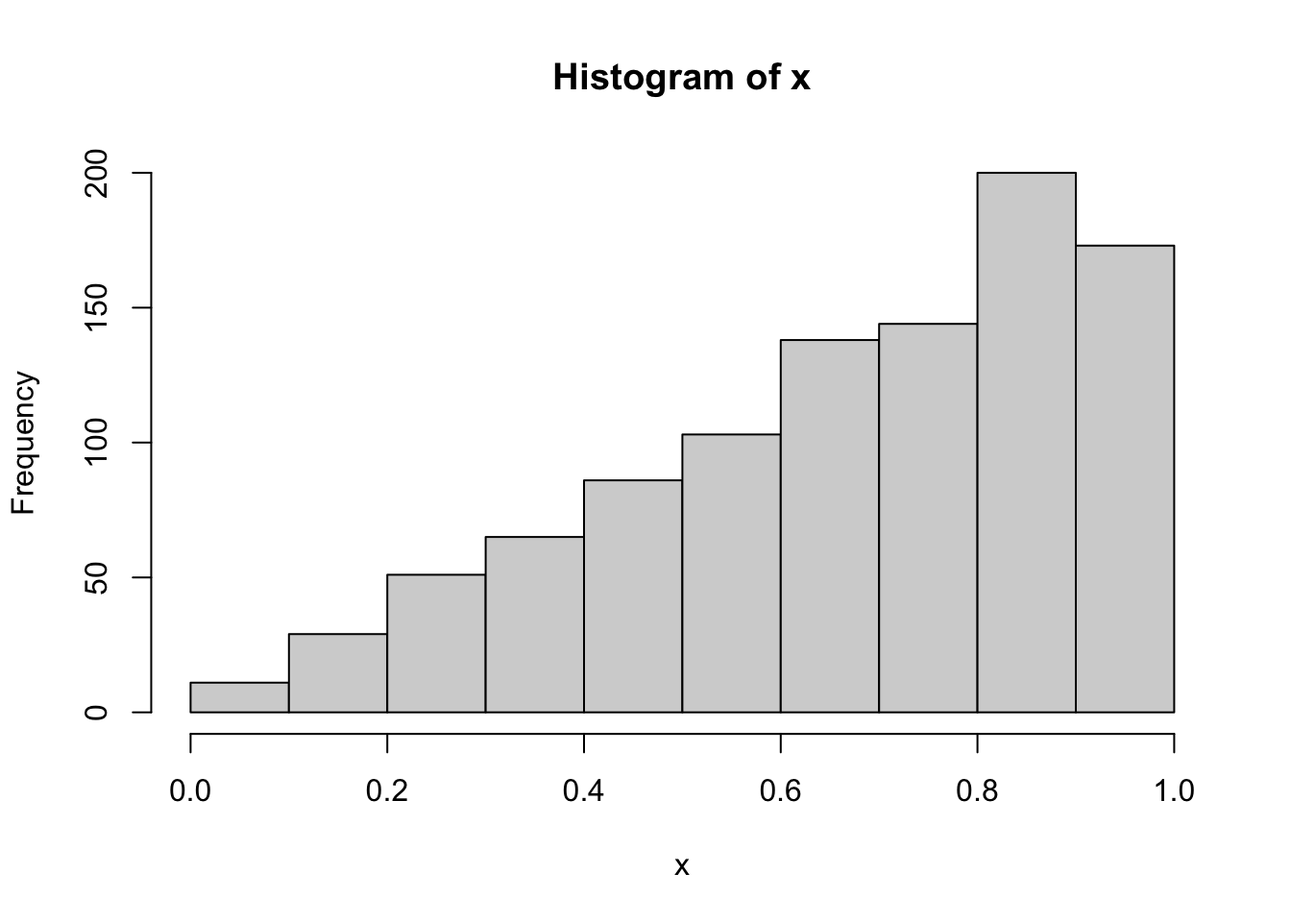
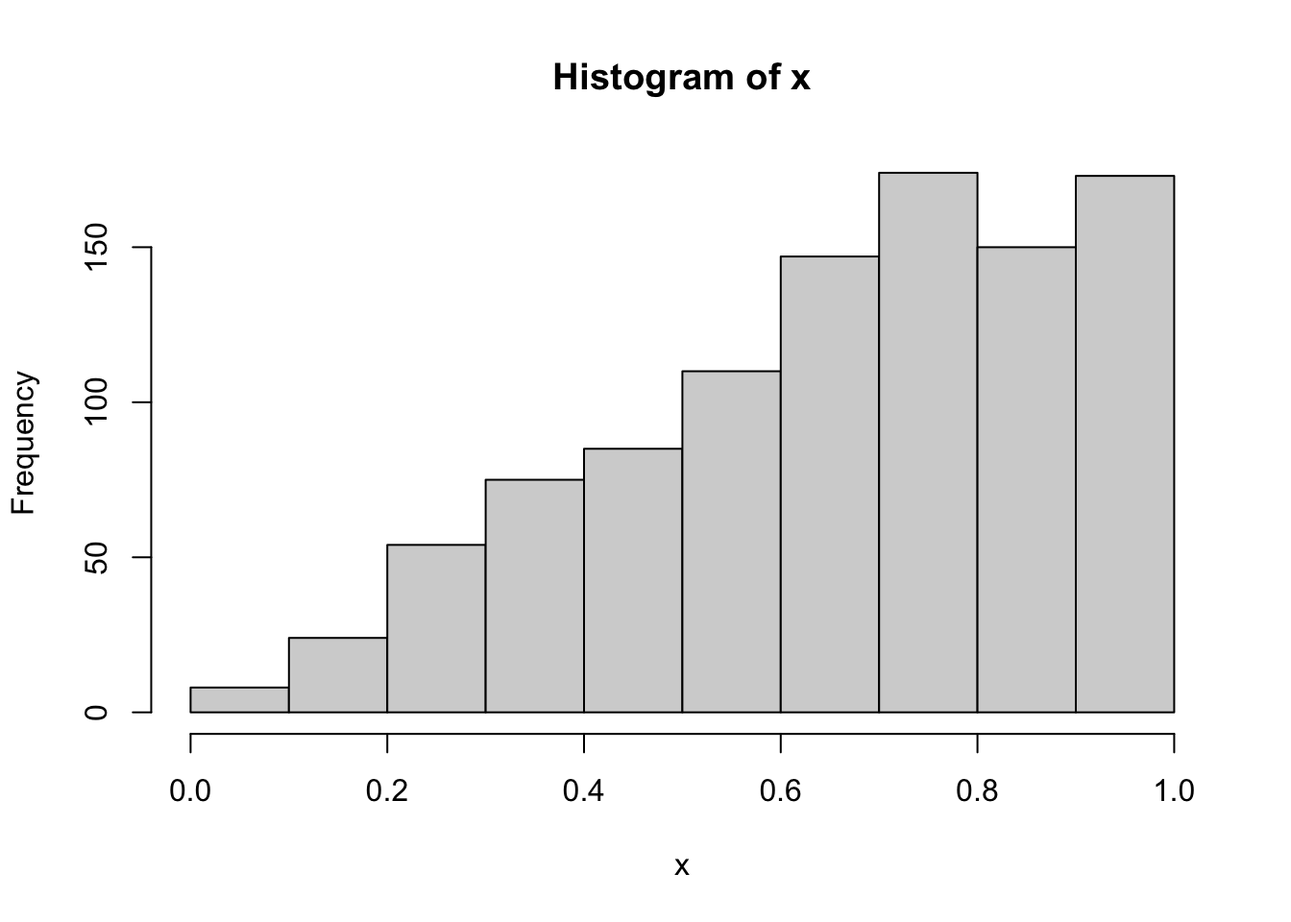
Notes from 3/9

diff --git a/docs/class-notes.html b/docs/class-notes.html
@@ -265,11 +265,19 @@ code span.wa { color: #60a0b0; font-weight: bold; font-style: italic; } /* Warni
   <li><a href="#control-variate-method" id="toc-control-variate-method" class="nav-link" data-scroll-target="#control-variate-method">Control Variate Method</a></li>
   </ul></li>
   </ul></li>
+  <li><a href="#section-16" id="toc-section-16" class="nav-link" data-scroll-target="#section-16">3/9/2023</a>
+  <ul class="collapse">
+  <li><a href="#summary-13" id="toc-summary-13" class="nav-link" data-scroll-target="#summary-13">Summary</a></li>
+  <li><a href="#notes-13" id="toc-notes-13" class="nav-link" data-scroll-target="#notes-13">Notes</a>
+  <ul class="collapse">
+  <li><a href="#control-variate-method-1" id="toc-control-variate-method-1" class="nav-link" data-scroll-target="#control-variate-method-1">Control Variate Method</a></li>
+  </ul></li>
+  </ul></li>
   </ul>
 </nav>
     </div>
 <!-- main -->
-<main class="content" id="quarto-document-content">
+<main class="content page-columns page-full" id="quarto-document-content">
 
 <header id="title-block-header" class="quarto-title-block default">
 <div class="quarto-title">
@@ -637,11 +645,11 @@ NULL</code></pre>
 <span id="cb21-8"><a href="#cb21-8" aria-hidden="true" tabindex="-1"></a></span>
 <span id="cb21-9"><a href="#cb21-9" aria-hidden="true" tabindex="-1"></a><span class="fu">mean</span>(x) <span class="co"># should be close to 1 / lambda</span></span></code><button title="Copy to Clipboard" class="code-copy-button"><i class="bi"></i></button></pre></div>
 <div class="cell-output cell-output-stdout">
-<pre><code>[1] 0.09999598</code></pre>
+<pre><code>[1] 0.09966128</code></pre>
 </div>
 <div class="sourceCode cell-code" id="cb23"><pre class="sourceCode r code-with-copy"><code class="sourceCode r"><span id="cb23-1"><a href="#cb23-1" aria-hidden="true" tabindex="-1"></a><span class="fu">var</span>(x) <span class="co"># should be close to 1 / lambda^2</span></span></code><button title="Copy to Clipboard" class="code-copy-button"><i class="bi"></i></button></pre></div>
 <div class="cell-output cell-output-stdout">
-<pre><code>[1] 0.01008169</code></pre>
+<pre><code>[1] 0.01001022</code></pre>
 </div>
 </div>
 <p>Transformation of a discrete CDF via a quantile:</p>
@@ -669,7 +677,7 @@ F_Y(y_{i - 1}) &lt; u \leq F_Y(y_i), u \sim Uniform(0, 1)
 <span id="cb25-18"><a href="#cb25-18" aria-hidden="true" tabindex="-1"></a><span class="fu">cumsum</span>(p)</span></code><button title="Copy to Clipboard" class="code-copy-button"><i class="bi"></i></button></pre></div>
 <div class="cell-output cell-output-stdout">
 <pre><code>     0      1      2      3      4 
-0.0979 0.3522 0.4158 0.8436 1.0000 </code></pre>
+0.0945 0.3614 0.4230 0.8509 1.0000 </code></pre>
 </div>
 </div>
 </section>
@@ -801,7 +809,7 @@ P(\text{A point generated from step 1 is rejected}) = \frac{\text{Area between }
 <div class="cell-output cell-output-stdout">
 <pre><code>out
     1     2     3     4     5 
-0.147 0.236 0.343 0.170 0.104 </code></pre>
+0.148 0.243 0.334 0.174 0.101 </code></pre>
 </div>
 </div>
 </section>
@@ -833,7 +841,7 @@ P(\text{A point generated from step 1 is rejected}) = \frac{\text{Area between }
 <span id="cb32-13"><a href="#cb32-13" aria-hidden="true" tabindex="-1"></a></span>
 <span id="cb32-14"><a href="#cb32-14" aria-hidden="true" tabindex="-1"></a><span class="fu">gen_poisson</span>(<span class="dv">10</span>, <span class="dv">2</span>)</span></code><button title="Copy to Clipboard" class="code-copy-button"><i class="bi"></i></button></pre></div>
 <div class="cell-output cell-output-stdout">
-<pre><code>[1] 21</code></pre>
+<pre><code>[1] 17</code></pre>
 </div>
 <div class="sourceCode cell-code" id="cb34"><pre class="sourceCode r code-with-copy"><code class="sourceCode r"><span id="cb34-1"><a href="#cb34-1" aria-hidden="true" tabindex="-1"></a>x <span class="ot">&lt;-</span> <span class="fu">replicate</span>(<span class="dv">1000</span>, <span class="fu">gen_poisson</span>(<span class="dv">8</span>, <span class="dv">3</span>))</span>
 <span id="cb34-2"><a href="#cb34-2" aria-hidden="true" tabindex="-1"></a></span>
@@ -876,8 +884,8 @@ f_X(x) = \begin{cases}
 <span id="cb35-5"><a href="#cb35-5" aria-hidden="true" tabindex="-1"></a></span>
 <span id="cb35-6"><a href="#cb35-6" aria-hidden="true" tabindex="-1"></a><span class="fu">rexp</span>(n, lambda) <span class="co"># x_i ~ f(x)             -- random draws</span></span></code><button title="Copy to Clipboard" class="code-copy-button"><i class="bi"></i></button></pre></div>
 <div class="cell-output cell-output-stdout">
-<pre><code> [1] 0.04821275 0.86568726 0.27535527 0.17550007 1.05623876 0.47881280
- [7] 0.23792943 0.02182196 0.97558406 0.06310353</code></pre>
+<pre><code> [1] 0.16743738 0.11545642 0.77955957 0.19226185 0.92408510 1.19061335
+ [7] 0.06183609 1.14527279 0.56107668 0.13444328</code></pre>
 </div>
 <div class="sourceCode cell-code" id="cb37"><pre class="sourceCode r code-with-copy"><code class="sourceCode r"><span id="cb37-1"><a href="#cb37-1" aria-hidden="true" tabindex="-1"></a><span class="fu">pexp</span>(x, lambda) <span class="co"># P(X &lt;= x)              -- CDF, cumulative probability</span></span></code><button title="Copy to Clipboard" class="code-copy-button"><i class="bi"></i></button></pre></div>
 <div class="cell-output cell-output-stdout">
@@ -898,7 +906,7 @@ f_X(x) = \begin{cases}
 <span id="cb43-3"><a href="#cb43-3" aria-hidden="true" tabindex="-1"></a></span>
 <span id="cb43-4"><a href="#cb43-4" aria-hidden="true" tabindex="-1"></a><span class="fu">rnorm</span>(<span class="dv">1</span>, mu, sd)</span></code><button title="Copy to Clipboard" class="code-copy-button"><i class="bi"></i></button></pre></div>
 <div class="cell-output cell-output-stdout">
-<pre><code>[1] -0.8994936</code></pre>
+<pre><code>[1] -0.1788599</code></pre>
 </div>
 <div class="sourceCode cell-code" id="cb45"><pre class="sourceCode r code-with-copy"><code class="sourceCode r"><span id="cb45-1"><a href="#cb45-1" aria-hidden="true" tabindex="-1"></a><span class="fu">pnorm</span>(<span class="dv">5</span>, mu, sd)</span></code><button title="Copy to Clipboard" class="code-copy-button"><i class="bi"></i></button></pre></div>
 <div class="cell-output cell-output-stdout">
@@ -934,7 +942,7 @@ F_u(u^*) \equiv P(U \leq u^*) = \int_0^{u^*} f_u(u)\ du = \int_0^{u^*} 1\ du = u
 <div class="sourceCode cell-code" id="cb51"><pre class="sourceCode r code-with-copy"><code class="sourceCode r"><span id="cb51-1"><a href="#cb51-1" aria-hidden="true" tabindex="-1"></a>u <span class="ot">&lt;-</span> <span class="fu">runif</span>(<span class="dv">1000000</span>, <span class="dv">0</span>, <span class="dv">1</span>)</span>
 <span id="cb51-2"><a href="#cb51-2" aria-hidden="true" tabindex="-1"></a><span class="fu">mean</span>(<span class="fu">exp</span>(<span class="sc">-</span>u))</span></code><button title="Copy to Clipboard" class="code-copy-button"><i class="bi"></i></button></pre></div>
 <div class="cell-output cell-output-stdout">
-<pre><code>[1] 0.6322463</code></pre>
+<pre><code>[1] 0.6319535</code></pre>
 </div>
 <div class="sourceCode cell-code" id="cb53"><pre class="sourceCode r code-with-copy"><code class="sourceCode r"><span id="cb53-1"><a href="#cb53-1" aria-hidden="true" tabindex="-1"></a><span class="dv">1</span> <span class="sc">-</span> <span class="fu">exp</span>(<span class="sc">-</span><span class="dv">1</span>)</span></code><button title="Copy to Clipboard" class="code-copy-button"><i class="bi"></i></button></pre></div>
 <div class="cell-output cell-output-stdout">
@@ -960,11 +968,11 @@ F_u(u^*) \equiv P(U \leq u^*) = \int_0^{u^*} f_u(u)\ du = \int_0^{u^*} 1\ du = u
 <span id="cb55-7"><a href="#cb55-7" aria-hidden="true" tabindex="-1"></a><span class="co"># g(x) = x</span></span>
 <span id="cb55-8"><a href="#cb55-8" aria-hidden="true" tabindex="-1"></a><span class="fu">mean</span>(u1)</span></code><button title="Copy to Clipboard" class="code-copy-button"><i class="bi"></i></button></pre></div>
 <div class="cell-output cell-output-stdout">
-<pre><code>[1] 0.5079939</code></pre>
+<pre><code>[1] 0.4879659</code></pre>
 </div>
 <div class="sourceCode cell-code" id="cb57"><pre class="sourceCode r code-with-copy"><code class="sourceCode r"><span id="cb57-1"><a href="#cb57-1" aria-hidden="true" tabindex="-1"></a><span class="fu">mean</span>(u2)</span></code><button title="Copy to Clipboard" class="code-copy-button"><i class="bi"></i></button></pre></div>
 <div class="cell-output cell-output-stdout">
-<pre><code>[1] 0.4957338</code></pre>
+<pre><code>[1] 0.4989732</code></pre>
 </div>
 </div>
 <p><span class="math display">\[
@@ -978,7 +986,7 @@ F_u(u^*) \equiv P(U \leq u^*) = \int_0^{u^*} f_u(u)\ du = \int_0^{u^*} 1\ du = u
 <div class="sourceCode cell-code" id="cb61"><pre class="sourceCode r code-with-copy"><code class="sourceCode r"><span id="cb61-1"><a href="#cb61-1" aria-hidden="true" tabindex="-1"></a>u <span class="ot">&lt;-</span> <span class="fu">runif</span>(<span class="dv">1000</span>, <span class="dv">2</span>, <span class="dv">5</span>)</span>
 <span id="cb61-2"><a href="#cb61-2" aria-hidden="true" tabindex="-1"></a>(<span class="dv">5</span> <span class="sc">-</span> <span class="dv">2</span>) <span class="sc">*</span> <span class="fu">mean</span>(<span class="fu">exp</span>(<span class="sc">-</span>u))</span></code><button title="Copy to Clipboard" class="code-copy-button"><i class="bi"></i></button></pre></div>
 <div class="cell-output cell-output-stdout">
-<pre><code>[1] 0.129262</code></pre>
+<pre><code>[1] 0.1299476</code></pre>
 </div>
 </div>
 </section>
@@ -1012,7 +1020,7 @@ F_u(u^*) \equiv P(U \leq u^*) = \int_0^{u^*} f_u(u)\ du = \int_0^{u^*} 1\ du = u
 <span id="cb63-9"><a href="#cb63-9" aria-hidden="true" tabindex="-1"></a></span>
 <span id="cb63-10"><a href="#cb63-10" aria-hidden="true" tabindex="-1"></a><span class="fu">map_dbl</span>(<span class="fu">c</span>(<span class="dv">10</span>, <span class="dv">100</span>, <span class="dv">1000</span>, <span class="dv">10000</span>, <span class="dv">100000</span>), <span class="sc">~</span><span class="fu">mc_integrate</span>(f, <span class="dv">2</span>, <span class="dv">4</span>, .))</span></code><button title="Copy to Clipboard" class="code-copy-button"><i class="bi"></i></button></pre></div>
 <div class="cell-output cell-output-stdout">
-<pre><code>[1] 0.08838609 0.11961412 0.11612834 0.11636998 0.11701864</code></pre>
+<pre><code>[1] 0.09562651 0.10850361 0.11208910 0.11700866 0.11717136</code></pre>
 </div>
 <div class="sourceCode cell-code" id="cb65"><pre class="sourceCode r code-with-copy"><code class="sourceCode r"><span id="cb65-1"><a href="#cb65-1" aria-hidden="true" tabindex="-1"></a><span class="co"># true value</span></span>
 <span id="cb65-2"><a href="#cb65-2" aria-hidden="true" tabindex="-1"></a><span class="fu">exp</span>(<span class="sc">-</span><span class="dv">2</span>) <span class="sc">-</span> <span class="fu">exp</span>(<span class="sc">-</span><span class="dv">4</span>)</span></code><button title="Copy to Clipboard" class="code-copy-button"><i class="bi"></i></button></pre></div>
@@ -1022,7 +1030,7 @@ F_u(u^*) \equiv P(U \leq u^*) = \int_0^{u^*} f_u(u)\ du = \int_0^{u^*} 1\ du = u
 <div class="sourceCode cell-code" id="cb67"><pre class="sourceCode r code-with-copy"><code class="sourceCode r"><span id="cb67-1"><a href="#cb67-1" aria-hidden="true" tabindex="-1"></a>h <span class="ot">&lt;-</span> <span class="cf">function</span>(x) <span class="dv">10</span> <span class="sc">*</span> <span class="fu">exp</span>(<span class="sc">-</span><span class="dv">10</span> <span class="sc">*</span> x)</span>
 <span id="cb67-2"><a href="#cb67-2" aria-hidden="true" tabindex="-1"></a><span class="fu">map_dbl</span>(<span class="fu">c</span>(<span class="dv">10</span>, <span class="dv">1000</span>, <span class="dv">1000000</span>), <span class="sc">~</span><span class="fu">mc_integrate</span>(h, <span class="dv">0</span>, <span class="dv">2</span>, .))</span></code><button title="Copy to Clipboard" class="code-copy-button"><i class="bi"></i></button></pre></div>
 <div class="cell-output cell-output-stdout">
-<pre><code>[1] 2.8051326 0.9667228 1.0014344</code></pre>
+<pre><code>[1] 0.01468095 0.98138915 1.00302424</code></pre>
 </div>
 <div class="sourceCode cell-code" id="cb69"><pre class="sourceCode r code-with-copy"><code class="sourceCode r"><span id="cb69-1"><a href="#cb69-1" aria-hidden="true" tabindex="-1"></a><span class="co"># true value</span></span>
 <span id="cb69-2"><a href="#cb69-2" aria-hidden="true" tabindex="-1"></a><span class="fu">integrate</span>(h, <span class="dv">0</span>, <span class="dv">2</span>)</span></code><button title="Copy to Clipboard" class="code-copy-button"><i class="bi"></i></button></pre></div>
@@ -1056,7 +1064,7 @@ f_X(x) = \begin{cases}
 <div class="sourceCode cell-code" id="cb71"><pre class="sourceCode r code-with-copy"><code class="sourceCode r"><span id="cb71-1"><a href="#cb71-1" aria-hidden="true" tabindex="-1"></a>f <span class="ot">&lt;-</span> <span class="cf">function</span>(x) <span class="dv">10</span> <span class="sc">*</span> <span class="fu">exp</span>(<span class="sc">-</span><span class="dv">10</span> <span class="sc">*</span> x)</span>
 <span id="cb71-2"><a href="#cb71-2" aria-hidden="true" tabindex="-1"></a><span class="fu">mc_integrate</span>(f, <span class="dv">0</span>, <span class="dv">5</span>, <span class="dv">100000</span>)</span></code><button title="Copy to Clipboard" class="code-copy-button"><i class="bi"></i></button></pre></div>
 <div class="cell-output cell-output-stdout">
-<pre><code>[1] 0.9933802</code></pre>
+<pre><code>[1] 1.009759</code></pre>
 </div>
 </div>
 <div class="cell">
@@ -1070,7 +1078,7 @@ f_X(x) = \begin{cases}
 <span id="cb73-8"><a href="#cb73-8" aria-hidden="true" tabindex="-1"></a></span>
 <span id="cb73-9"><a href="#cb73-9" aria-hidden="true" tabindex="-1"></a>u <span class="sc">-</span> l</span></code><button title="Copy to Clipboard" class="code-copy-button"><i class="bi"></i></button></pre></div>
 <div class="cell-output cell-output-stdout">
-<pre><code>[1] 0.307096</code></pre>
+<pre><code>[1] -0.5129175</code></pre>
 </div>
 <div class="sourceCode cell-code" id="cb75"><pre class="sourceCode r code-with-copy"><code class="sourceCode r"><span id="cb75-1"><a href="#cb75-1" aria-hidden="true" tabindex="-1"></a><span class="fu">pexp</span>(<span class="dv">6</span>, <span class="dv">1</span><span class="sc">/</span><span class="dv">20</span>) <span class="sc">-</span> <span class="fu">pexp</span>(<span class="dv">2</span>, <span class="dv">1</span><span class="sc">/</span><span class="dv">20</span>)</span></code><button title="Copy to Clipboard" class="code-copy-button"><i class="bi"></i></button></pre></div>
 <div class="cell-output cell-output-stdout">
@@ -1103,7 +1111,7 @@ f_X(x) = \begin{cases}
 <span id="cb77-20"><a href="#cb77-20" aria-hidden="true" tabindex="-1"></a></span>
 <span id="cb77-21"><a href="#cb77-21" aria-hidden="true" tabindex="-1"></a><span class="fu">z_cdf</span>(<span class="dv">2</span>, <span class="dv">100000</span>)</span></code><button title="Copy to Clipboard" class="code-copy-button"><i class="bi"></i></button></pre></div>
 <div class="cell-output cell-output-stdout">
-<pre><code>[1] 0.977499</code></pre>
+<pre><code>[1] 0.977421</code></pre>
 </div>
 <div class="sourceCode cell-code" id="cb79"><pre class="sourceCode r code-with-copy"><code class="sourceCode r"><span id="cb79-1"><a href="#cb79-1" aria-hidden="true" tabindex="-1"></a><span class="fu">pnorm</span>(<span class="dv">2</span>)</span></code><button title="Copy to Clipboard" class="code-copy-button"><i class="bi"></i></button></pre></div>
 <div class="cell-output cell-output-stdout">
@@ -1146,7 +1154,7 @@ f_X(x) = \begin{cases}
 <span id="cb81-9"><a href="#cb81-9" aria-hidden="true" tabindex="-1"></a><span class="co"># step 3.</span></span>
 <span id="cb81-10"><a href="#cb81-10" aria-hidden="true" tabindex="-1"></a><span class="fu">mean</span>(i)</span></code><button title="Copy to Clipboard" class="code-copy-button"><i class="bi"></i></button></pre></div>
 <div class="cell-output cell-output-stdout">
-<pre><code>[1] 0.9718</code></pre>
+<pre><code>[1] 0.9797</code></pre>
 </div>
 <div class="sourceCode cell-code" id="cb83"><pre class="sourceCode r code-with-copy"><code class="sourceCode r"><span id="cb83-1"><a href="#cb83-1" aria-hidden="true" tabindex="-1"></a>norm_cdf <span class="ot">&lt;-</span> <span class="cf">function</span>(x, <span class="at">n =</span> <span class="dv">10000</span>, <span class="at">mu =</span> <span class="dv">0</span>, <span class="at">sigma =</span> <span class="dv">1</span>) {</span>
 <span id="cb83-2"><a href="#cb83-2" aria-hidden="true" tabindex="-1"></a>  X <span class="ot">&lt;-</span> <span class="fu">rnorm</span>(n, mu, sigma)</span>
@@ -1239,7 +1247,7 @@ f_X(x) = \begin{cases}
 <span id="cb91-43"><a href="#cb91-43" aria-hidden="true" tabindex="-1"></a><span class="fu">comparison</span>()</span></code><button title="Copy to Clipboard" class="code-copy-button"><i class="bi"></i></button></pre></div>
 <div class="cell-output cell-output-stdout">
 <pre><code>      theta1       theta2 
-5.163935e-05 2.602778e-05 </code></pre>
+3.999127e-05 2.826263e-05 </code></pre>
 </div>
 </div>
 <ul>
@@ -1293,7 +1301,7 @@ Var\Bigl(\frac{h(u_1) + h(u_2)}{2} \Bigr) = \frac{1}{4}(Var(h(u_1)) + Var(h(u_2)
 <span id="cb93-4"><a href="#cb93-4" aria-hidden="true" tabindex="-1"></a><span class="co"># Cov(u, v) &lt; 0!</span></span>
 <span id="cb93-5"><a href="#cb93-5" aria-hidden="true" tabindex="-1"></a><span class="fu">cov</span>(u, v)</span></code><button title="Copy to Clipboard" class="code-copy-button"><i class="bi"></i></button></pre></div>
 <div class="cell-output cell-output-stdout">
-<pre><code>[1] -0.0836544</code></pre>
+<pre><code>[1] -0.08566134</code></pre>
 </div>
 </div>
 <p>Comparison between simple monte-carlo and antithetic variable approach.</p>
@@ -1338,11 +1346,11 @@ Var\Bigl(\frac{h(u_1) + h(u_2)}{2} \Bigr) = \frac{1}{4}(Var(h(u_1)) + Var(h(u_2)
 <span id="cb95-38"><a href="#cb95-38" aria-hidden="true" tabindex="-1"></a></span>
 <span id="cb95-39"><a href="#cb95-39" aria-hidden="true" tabindex="-1"></a><span class="fu">var</span>(s)</span></code><button title="Copy to Clipboard" class="code-copy-button"><i class="bi"></i></button></pre></div>
 <div class="cell-output cell-output-stdout">
-<pre><code>[1] 0.0005662214</code></pre>
+<pre><code>[1] 0.0005521252</code></pre>
 </div>
 <div class="sourceCode cell-code" id="cb97"><pre class="sourceCode r code-with-copy"><code class="sourceCode r"><span id="cb97-1"><a href="#cb97-1" aria-hidden="true" tabindex="-1"></a><span class="fu">var</span>(a)</span></code><button title="Copy to Clipboard" class="code-copy-button"><i class="bi"></i></button></pre></div>
 <div class="cell-output cell-output-stdout">
-<pre><code>[1] 1.778401e-06</code></pre>
+<pre><code>[1] 1.982865e-06</code></pre>
 </div>
 </div>
 </section>
@@ -1358,6 +1366,126 @@ Var\Bigl(\frac{h(u_1) + h(u_2)}{2} \Bigr) = \frac{1}{4}(Var(h(u_1)) + Var(h(u_2)
 <p><span class="math display">\[
 \min_c Var(\hat{\theta}_c) = \min_c Var(1 \cdot g(x) + c \cdot [l(x) - \mu])
 \]</span></p>
+</section>
+</section>
+</section>
+<section id="section-16" class="level1 page-columns page-full">
+<h1>3/9/2023</h1>
+<section id="summary-13" class="level2">
+<h2 class="anchored" data-anchor-id="summary-13">Summary</h2>
+<p>More on the control variate method.</p>
+</section>
+<section id="notes-13" class="level2 page-columns page-full">
+<h2 class="anchored" data-anchor-id="notes-13">Notes</h2>
+<ul>
+<li>Homework 3 is due on 3/16 (next Thursday)</li>
+</ul>
+<p><strong>Question from last class:</strong> why are we able to use the SLLN with the antithetic variable method? Aren’t we violating the assumption of i.i.d. draws used for estimation?</p>
+<p>Standard Monte Carlo:</p>
+<ol type="1">
+<li><p><span class="math inline">\(u_1, u_2, u_3, u_4 \sim U(0, 1)\)</span></p></li>
+<li><p><span class="math inline">\(\hat{\theta}_4 = \frac{1}{4} \sum_{i = 1}^4 g(u_i)\)</span></p></li>
+</ol>
+<p>Antithetic Variable Method:</p>
+<ol type="1">
+<li><span class="math inline">\(u_1, u_2 \sim U(0, 1); u_3 = 1 - u_1, u_4 = 1 - u_2.\)</span>
+<ul>
+<li>Note that <span class="math inline">\(Cov(u_1, u_3) &lt; 0\)</span> and <span class="math inline">\(Cov(u_2, u_4) &lt; 0.\)</span></li>
+</ul></li>
+<li>We then estimate a new sample mean</li>
+</ol>
+<p><span class="math display">\[\begin{align*}
+  \theta \leftarrow \frac{1}{4} \sum_{i = 1}^4 g(u_i) &amp;= \frac{g(u_1) + g(u_2) + g(u_3) + g(u_4)}{4} \\
+  &amp;= \frac{g(u_1) + g(1 - u_1) + g(u_2) + g(1 - u_2)}{4} \\ \\
+  &amp;= \frac{\frac{g(u_1) + g(1 - u_2)}{2} + \frac{g(u_2) + g(1 - u_2)}{2}}{2} \\
+  &amp;= \frac{1}{2} \sum_{i = 1}^2 g^*(u_i).
+\end{align*}\]</span></p>
+<p>So, you end up with half the number of realizations, but <span class="math inline">\(\frac{g(u_1) + g(1 - u_2)}{2}\)</span> and <span class="math inline">\(\frac{g(u_2) + g(1 - u_2)}{2}\)</span> are independent from each other. So, for estimation, they constitute independent and identical draws, and thus we can rely on the SLLN to know that our estimate of <span class="math inline">\(\theta\)</span> converges to the true value as the number of realizations used increases.</p>
+<section id="control-variate-method-1" class="level3 page-columns page-full">
+<h3 class="anchored" data-anchor-id="control-variate-method-1">Control Variate Method</h3>
+<p>Picking up where we left off.</p>
+<p><span class="math display">\[
+\min_c Var(\hat{\theta}_c) = \min_c Var(1 \cdot g(x) + c \cdot [l(x) - \mu])
+\]</span></p>
+<p>We assume <span class="math inline">\(\mu\)</span>, the mean of <span class="math inline">\(l(x)\)</span> is known. In practice, we can estimate it empirically from simulated data?</p>
+
+<div class="no-row-height column-margin column-container"><div class="">
+<p>Note that <span class="math inline">\(Var(X + a) = Var(X)\)</span></p>
+</div></div><p><span class="math display">\[\begin{align*}
+  \min_c Var(\hat{\theta}_c) &amp;\implies \min_c Var(1 \cdot g(x) + c \cdot [l(x) - \mu]) \\
+  &amp;\implies \min_c 1 \cdot Var(g(x)) + c^2 \cdot Var[l(x) - \mu] + 2 \cdot 1 \cdot c \cdot Cov(g(x), l(x)) \\
+  &amp;\implies \min_c Var(l(x) - \mu) \cdot c^2  + 2 \cdot Cov(g(x), l(x)) \cdot c + Var(g(x)) \\
+  &amp;\implies \frac{d}{dc} \Biggl[ Var(l(x) - \mu) \cdot c^2  + 2 \cdot Cov(g(x), l(x)) \cdot c + Var(g(x)) \Biggr] \equiv 0 \\
+  &amp;\implies 2 \cdot Var(l(x) - \mu) \cdot c^* + 2 \cdot Cov(g(x), l(x)) \equiv 0 \\
+  &amp;\implies c^* = -\frac{Cov(g(x), l(x))}{Var(l(x))} \\
+  &amp; \frac{d^2}{dx^2} Var(\hat{\theta}_c) \Big|_{c = c^*} &gt; 0.
+\end{align*}\]</span></p>
+<p>Variance is always positive by definition, so we know that the value found for <span class="math inline">\(c^*\)</span> is the minimum.</p>
+<p><span class="math display">\[
+c^* = -\frac{Cov(g(x), l(x))}{Var(l(x))}
+\]</span></p>
+<p><strong>Example:</strong></p>
+<p><span class="math display">\[
+\theta = E(e^u) = \int_0^1 e^u\ du
+\]</span></p>
+<p>So <span class="math inline">\(g(u) = e^u.\)</span> First, we need a candidate for <span class="math inline">\(l(x)\)</span>.</p>
+<p>How about <span class="math inline">\(l(u) = u\)</span> where <span class="math inline">\(u \sim U(0, 1).\)</span> So, <span class="math inline">\(E(U) = 0.5\)</span> and <span class="math inline">\(Var(U) = \frac{1}{12}\)</span>.</p>
+
+<div class="no-row-height column-margin column-container"><div class="">
+<p>We solved for these values in Homework 1.</p>
+</div></div><p>Then <span class="math display">\[
+\hat{\theta}_c = e^u + c \cdot [u - \frac{1}{2}]
+\]</span> where <span class="math display">\[
+  c = -\frac{Cov(e^u, u)}{Var(u)} = -0.1409 / (1/12).
+\]</span></p>
+<div class="cell">
+<div class="sourceCode cell-code" id="cb99"><pre class="sourceCode r code-with-copy"><code class="sourceCode r"><span id="cb99-1"><a href="#cb99-1" aria-hidden="true" tabindex="-1"></a>u <span class="ot">&lt;-</span> <span class="fu">runif</span>(<span class="dv">100</span>)</span>
+<span id="cb99-2"><a href="#cb99-2" aria-hidden="true" tabindex="-1"></a>C <span class="ot">&lt;-</span> <span class="sc">-</span><span class="fu">cov</span>(<span class="fu">exp</span>(u), u) <span class="sc">/</span> <span class="fu">var</span>(u)</span>
+<span id="cb99-3"><a href="#cb99-3" aria-hidden="true" tabindex="-1"></a>C</span></code><button title="Copy to Clipboard" class="code-copy-button"><i class="bi"></i></button></pre></div>
+<div class="cell-output cell-output-stdout">
+<pre><code>[1] -1.707418</code></pre>
+</div>
+<div class="sourceCode cell-code" id="cb101"><pre class="sourceCode r code-with-copy"><code class="sourceCode r"><span id="cb101-1"><a href="#cb101-1" aria-hidden="true" tabindex="-1"></a><span class="sc">-</span><span class="fl">0.1409</span> <span class="sc">/</span> (<span class="dv">1</span><span class="sc">/</span><span class="dv">12</span>)</span></code><button title="Copy to Clipboard" class="code-copy-button"><i class="bi"></i></button></pre></div>
+<div class="cell-output cell-output-stdout">
+<pre><code>[1] -1.6908</code></pre>
+</div>
+</div>
+<p><strong>Trying on our own:</strong></p>
+<p>Estimate <span class="math inline">\(\theta = \int_0^1 e^{-x} / (1 + x^2)\ dx\)</span> using the control variate method with <span class="math inline">\(l(x) = e^{-0.5} / (1 + x^2)\)</span> and an emperical value of <span class="math inline">\(c^*\)</span>.</p>
+<div class="cell">
+<div class="sourceCode cell-code" id="cb103"><pre class="sourceCode r code-with-copy"><code class="sourceCode r"><span id="cb103-1"><a href="#cb103-1" aria-hidden="true" tabindex="-1"></a>g <span class="ot">&lt;-</span> <span class="cf">function</span>(x) <span class="fu">exp</span>(<span class="sc">-</span>x) <span class="sc">/</span> (<span class="dv">1</span> <span class="sc">+</span> x<span class="sc">^</span><span class="dv">2</span>)</span>
+<span id="cb103-2"><a href="#cb103-2" aria-hidden="true" tabindex="-1"></a>l <span class="ot">&lt;-</span> <span class="cf">function</span>(x) <span class="fu">exp</span>(<span class="sc">-</span><span class="fl">0.5</span>) <span class="sc">/</span> (<span class="dv">1</span> <span class="sc">+</span> x<span class="sc">^</span><span class="dv">2</span>)</span>
+<span id="cb103-3"><a href="#cb103-3" aria-hidden="true" tabindex="-1"></a></span>
+<span id="cb103-4"><a href="#cb103-4" aria-hidden="true" tabindex="-1"></a><span class="co"># estimating C</span></span>
+<span id="cb103-5"><a href="#cb103-5" aria-hidden="true" tabindex="-1"></a>u <span class="ot">&lt;-</span> <span class="fu">runif</span>(<span class="dv">10000</span>)</span>
+<span id="cb103-6"><a href="#cb103-6" aria-hidden="true" tabindex="-1"></a>C <span class="ot">&lt;-</span> <span class="sc">-</span><span class="fu">cov</span>(<span class="fu">g</span>(u), <span class="fu">l</span>(u)) <span class="sc">/</span> <span class="fu">var</span>(<span class="fu">l</span>(u))</span>
+<span id="cb103-7"><a href="#cb103-7" aria-hidden="true" tabindex="-1"></a></span>
+<span id="cb103-8"><a href="#cb103-8" aria-hidden="true" tabindex="-1"></a><span class="co"># simple monte-carlo vs. control variate</span></span>
+<span id="cb103-9"><a href="#cb103-9" aria-hidden="true" tabindex="-1"></a>u <span class="ot">&lt;-</span> <span class="fu">runif</span>(<span class="dv">1000</span>)</span>
+<span id="cb103-10"><a href="#cb103-10" aria-hidden="true" tabindex="-1"></a>smc <span class="ot">&lt;-</span> <span class="fu">mean</span>(<span class="fu">g</span>(u))</span>
+<span id="cb103-11"><a href="#cb103-11" aria-hidden="true" tabindex="-1"></a>hat <span class="ot">&lt;-</span> <span class="fu">mean</span>(<span class="fu">g</span>(u) <span class="sc">+</span> C <span class="sc">*</span> (<span class="fu">l</span>(u) <span class="sc">-</span> <span class="fu">mean</span>(<span class="fu">l</span>(u))))</span>
+<span id="cb103-12"><a href="#cb103-12" aria-hidden="true" tabindex="-1"></a></span>
+<span id="cb103-13"><a href="#cb103-13" aria-hidden="true" tabindex="-1"></a><span class="fu">integrate</span>(g, <span class="dv">0</span>, <span class="dv">1</span>)</span></code><button title="Copy to Clipboard" class="code-copy-button"><i class="bi"></i></button></pre></div>
+<div class="cell-output cell-output-stdout">
+<pre><code>0.5247971 with absolute error &lt; 5.8e-15</code></pre>
+</div>
+<div class="sourceCode cell-code" id="cb105"><pre class="sourceCode r code-with-copy"><code class="sourceCode r"><span id="cb105-1"><a href="#cb105-1" aria-hidden="true" tabindex="-1"></a><span class="fu">print</span>(smc)</span></code><button title="Copy to Clipboard" class="code-copy-button"><i class="bi"></i></button></pre></div>
+<div class="cell-output cell-output-stdout">
+<pre><code>[1] 0.538403</code></pre>
+</div>
+<div class="sourceCode cell-code" id="cb107"><pre class="sourceCode r code-with-copy"><code class="sourceCode r"><span id="cb107-1"><a href="#cb107-1" aria-hidden="true" tabindex="-1"></a><span class="fu">print</span>(hat)</span></code><button title="Copy to Clipboard" class="code-copy-button"><i class="bi"></i></button></pre></div>
+<div class="cell-output cell-output-stdout">
+<pre><code>[1] 0.538403</code></pre>
+</div>
+<div class="sourceCode cell-code" id="cb109"><pre class="sourceCode r code-with-copy"><code class="sourceCode r"><span id="cb109-1"><a href="#cb109-1" aria-hidden="true" tabindex="-1"></a><span class="fu">print</span>(<span class="fu">var</span>(<span class="fu">g</span>(u)))</span></code><button title="Copy to Clipboard" class="code-copy-button"><i class="bi"></i></button></pre></div>
+<div class="cell-output cell-output-stdout">
+<pre><code>[1] 0.05989671</code></pre>
+</div>
+<div class="sourceCode cell-code" id="cb111"><pre class="sourceCode r code-with-copy"><code class="sourceCode r"><span id="cb111-1"><a href="#cb111-1" aria-hidden="true" tabindex="-1"></a><span class="fu">print</span>(<span class="fu">var</span>(<span class="fu">g</span>(u) <span class="sc">+</span> C <span class="sc">*</span> (<span class="fu">l</span>(u) <span class="sc">-</span> <span class="fu">mean</span>(<span class="fu">l</span>(u)))))</span></code><button title="Copy to Clipboard" class="code-copy-button"><i class="bi"></i></button></pre></div>
+<div class="cell-output cell-output-stdout">
+<pre><code>[1] 0.002997046</code></pre>
+</div>
+</div>
 
 
 </section>
